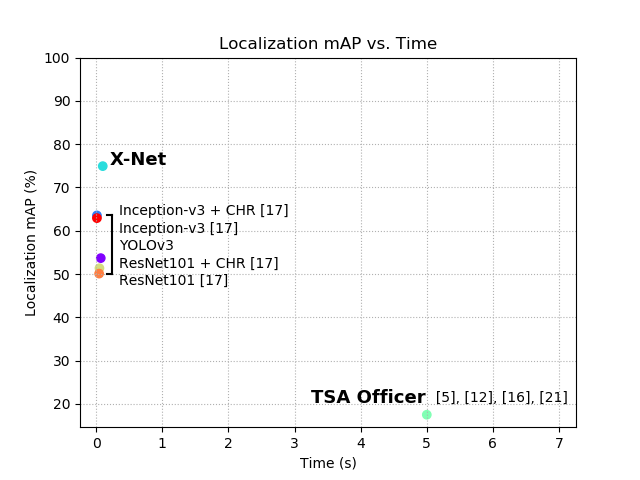
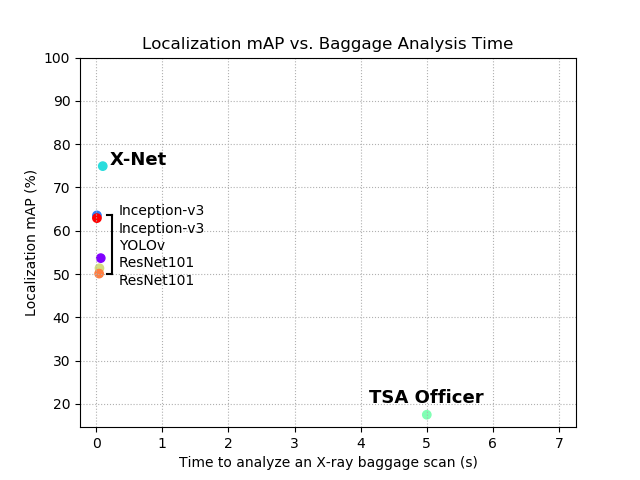
adding with_citations to draw_plot

diff --git a/utils/visuals.py b/utils/visuals.py
@@ -75,12 +75,11 @@ class Draw:
             x_max = min(self.img.shape[0], int(x_max.item() + 0.5))
 
             color = self.colors[class_id]
-            label = '{} {:.2f}'.format(predicted_class, score)
+            label = "{} {:.2f}".format(predicted_class, score)
 
             cv2.rectangle(self.img, (x_min, y_min), (x_max, y_max), color, self.thickness)
 
-            text_size, _ = cv2.getTextSize(label, self.font, self.font_size, self.font_thickness)
-            width, height = text_size
+            (width, height), _ = cv2.getTextSize(label, self.font, self.font_size, self.font_thickness)
 
             cv2.rectangle(self.img, (x_min - 1, y_max - 20), (x_min + width + 5, y_max), color, cv2.FILLED)
             cv2.putText(self.img, label, (x_min, y_max - 6), self.font, self.font_size, black, self.font_thickness)
@@ -113,12 +112,13 @@ class Draw:
 # ---------------- PLOT RESULTS ----------------
 
 # PLOT FUNC
-def plot(results, mode, save_path=None):
+def plot(results, mode, save_path=None, with_citations=False):
     """Plot results of X-Net vs. TSA vs. other models
 
     :param results: results dict
     :param mode: either 'localization' or 'classification', case-insensitive
     :param save_path: save path for plot (default: None)
+    :param with_citations: include citations in plot or not (default: False)
 
     """
 
@@ -137,11 +137,11 @@ def plot(results, mode, save_path=None):
         vertical_endpts = list(zip(*vertical_endpts)) + ["black"]
         vertical_endpts[0] = (vertical_endpts[0][0], vertical_endpts[0][0])  # make sure the line isn't slanted
 
-        top, bottom, _ = vertical_endpts
+        (x_top, y_top), (x_bottom, y_bottom), _ = vertical_endpts
 
         horizontal_endpts = [
-            (top[0] - 0.075, top[1]), (bottom[0], bottom[0]), "black",
-            (top[0] - 0.075, top[1]), (bottom[1], bottom[1]), "black"
+            (x_top - 0.075, y_top), (x_bottom, x_bottom), "black",
+            (x_top - 0.075, y_top), (y_bottom, y_bottom), "black"
         ]
 
         plt.plot(*vertical_endpts)
@@ -161,13 +161,18 @@ def plot(results, mode, save_path=None):
         if "X-Net" in model:
             plt.annotate(model, (results[model][0] + 0.1, results[model][1] + 0.25), weight="bold", fontsize=13)
         elif "TSA" in model:
-            plt.annotate("TSA Officer", (results[model][0] - 1.75, results[model][1] + 2.7), weight="bold", fontsize=13)
-            plt.annotate(model.replace("TSA", " "), (results[model][0], results[model][1] + 2.9))
+            if with_citations:
+                plt.annotate("TSA Officer", (results[model][0] - 1.75, results[model][1] + 2.7), weight="bold", fontsize=13)
+                plt.annotate(model.replace("TSA", " "), (results[model][0], results[model][1] + 2.9))
+            else:
+                plt.annotate("TSA Officer", (results[model][0] - 0.875, results[model][1] + 2.7), weight="bold", fontsize=13)
 
     # annotate other points
     vertical_endpts, horizontal_endpts = draw_brackets()
 
     for idx, model in enumerate(without_outliers().keys()):
+        if not with_citations:
+            model = model[:model.find(" ")]
         if mode.lower() == "classification":
             plt.annotate(model, (vertical_endpts[0][0] + 0.1, vertical_endpts[0][1] - (idx * 4) + 1), fontsize=10)
         elif mode.lower() == "localization":
